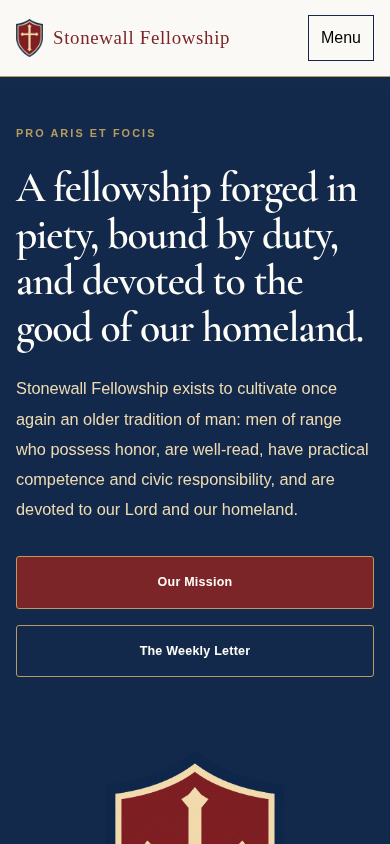
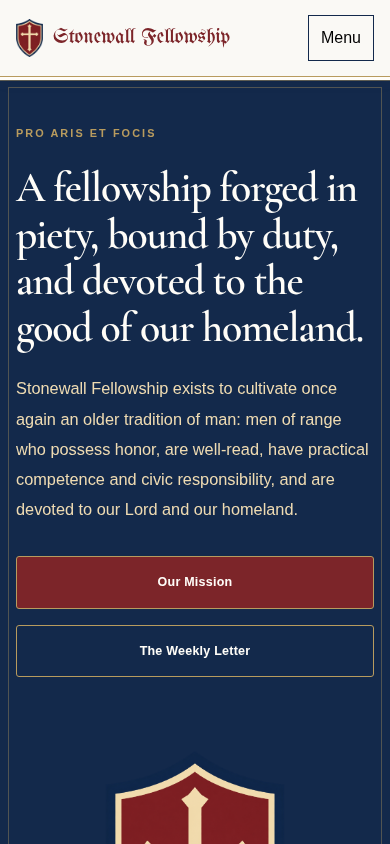
Add restrained colonial molding and refresh design previews

Changed region(s): [[0.0, 0.0924, 1.0, 0.1232], [0.1231, 0.0308, 0.5846, 0.0616]]

diff --git a/refined.css b/refined.css
@@ -34,8 +34,84 @@ h1,h2,h3,blockquote,.footer-title{font-family:Georgia,'Times New Roman',serif;fo
 @font-face{font-family:StonewallWordmark;src:url('/assets/fonts/unifrakturmaguntia-latin-400-normal.woff2') format('woff2');font-weight:400;font-display:swap}
 @font-face{font-family:StonewallSerif;src:url('/assets/fonts/cormorant-garamond-latin-400-normal.woff2') format('woff2');font-weight:400;font-display:swap}
 @font-face{font-family:StonewallSerif;src:url('/assets/fonts/cormorant-garamond-latin-600-normal.woff2') format('woff2');font-weight:600;font-display:swap}
-.brand span,.footer-title{font-family:StonewallWordmark,Georgia,serif;font-weight:400;color:var(--stonewall-red);font-size:1.9rem;letter-spacing:0}.brand img{width:36px;height:52px;object-fit:contain;border:0;padding:0;background:none}.footer-title{color:var(--stonewall-white)}
+.site-header .brand span,.footer-title{font-family:StonewallWordmark,Georgia,serif;font-weight:400;color:var(--stonewall-red);font-size:1.9rem;letter-spacing:0}.brand img{width:36px;height:52px;object-fit:contain;border:0;padding:0;background:none}.footer-title{color:var(--stonewall-white)}
 h1,h2,h3,.hero-copy h1,blockquote{font-family:StonewallSerif,Georgia,serif;font-weight:600;letter-spacing:-.025em}.hero-logo-wrap{background:none;box-shadow:none;border:0;border-radius:0;padding:0;width:100%;max-width:350px;justify-self:end}.hero-logo,.hero-shield{width:100%;max-height:440px;object-fit:contain;border:0;outline:0;border-radius:0;box-shadow:none;filter:none;mix-blend-mode:normal}.hero-logo-wrap:before,.hero-logo-wrap:after,.site-header:before,.site-header:after{display:none}.hero-grid{grid-template-columns:1.65fr .85fr;gap:64px}.hero{padding:70px 0 80px}.hero .button-secondary{color:var(--stonewall-white);border:1px solid var(--stonewall-gold);background:none}.hero .button-primary{background:var(--stonewall-red)!important;color:var(--stonewall-white)!important;border-color:var(--stonewall-gold)}.hero .button-primary:hover{background:var(--stonewall-red)!important;filter:brightness(1.1)}.hero-actions{gap:16px}.hero-copy h1{font-size:clamp(2.7rem,4.8vw,4.5rem)}.section-kicker{letter-spacing:.16em}.nav-cta{box-shadow:none}.legacy-portrait-section:before,.legacy-portrait-section:after{display:none}
-@media(max-width:1100px){.brand span{font-size:1.7rem}}
+@media(max-width:1100px){.site-header .brand span{font-size:1.7rem}}
 @media(max-width:800px){.hero-grid{grid-template-columns:1fr;gap:32px}.hero-logo-wrap{justify-self:center;max-width:180px}.hero-logo{max-height:260px}.hero{padding:46px 0 54px}.hero-copy h1{font-size:2.9rem}}
-@media(max-width:520px){.brand span{font-size:1.28rem}.brand{gap:10px}.brand img{width:27px;height:40px}.hero-copy h1{font-size:2.6rem}.hero-actions{flex-direction:column;align-items:stretch}}
+@media(max-width:520px){.site-header .brand span{font-size:1.28rem}.brand{gap:10px}.brand img{width:27px;height:40px}.hero-copy h1{font-size:2.6rem}.hero-actions{flex-direction:column;align-items:stretch}}
+
+/* Quiet architectural details inspired by colonial cornices and raised panels. */
+.site-header {
+  border-bottom: 1px solid var(--stonewall-gold);
+  box-shadow: 0 3px 0 var(--stonewall-white),
+              0 4px 0 color-mix(in srgb, var(--stonewall-gold) 45%, transparent),
+              0 7px 12px color-mix(in srgb, var(--stonewall-black) 5%, transparent);
+}
+
+.hero::after {
+  content: "";
+  display: block;
+  position: absolute;
+  inset: 20px;
+  border: 1px solid color-mix(in srgb, var(--stonewall-gold) 38%, transparent);
+  background: none;
+  pointer-events: none;
+}
+
+.hero::before {
+  content: "";
+  display: block;
+  position: absolute;
+  inset: auto 0 0;
+  height: 12px;
+  border: 0;
+  outline: 0;
+  background: linear-gradient(to bottom,
+    var(--stonewall-blue) 0 3px,
+    var(--stonewall-gold) 3px 4px,
+    var(--stonewall-ivory) 4px 7px,
+    var(--stonewall-white) 7px 10px,
+    var(--stonewall-gold) 10px 11px,
+    var(--stonewall-white) 11px);
+  pointer-events: none;
+}
+
+.visual-band,
+.letter-section {
+  box-shadow: inset 0 1px 0 color-mix(in srgb, var(--stonewall-gold) 55%, transparent),
+              inset 0 4px 0 var(--stonewall-white),
+              inset 0 5px 0 color-mix(in srgb, var(--stonewall-gold) 40%, transparent),
+              inset 0 -1px 0 color-mix(in srgb, var(--stonewall-gold) 55%, transparent),
+              inset 0 -5px 0 var(--stonewall-white),
+              inset 0 -6px 0 color-mix(in srgb, var(--stonewall-gold) 40%, transparent);
+}
+
+.fellowship-photo,
+.jackson-image {
+  padding: 9px;
+  background: var(--stonewall-white);
+  border: 1px solid color-mix(in srgb, var(--stonewall-gold) 55%, transparent);
+  outline: 1px solid color-mix(in srgb, var(--stonewall-gold) 35%, transparent);
+  outline-offset: -5px;
+  border-radius: 1px;
+  box-shadow: 0 3px 10px color-mix(in srgb, var(--stonewall-black) 6%, transparent);
+}
+
+.fellowship-photo img,
+.jackson-image img {
+  border-radius: 0;
+}
+
+.letter-form,
+.contact-card {
+  border: 1px solid color-mix(in srgb, var(--stonewall-gold) 70%, transparent);
+  outline: 1px solid color-mix(in srgb, var(--stonewall-gold) 35%, transparent);
+  outline-offset: -8px;
+  border-radius: 1px;
+  box-shadow: 0 3px 12px color-mix(in srgb, var(--stonewall-black) 5%, transparent);
+}
+
+@media (max-width: 520px) {
+  .hero::after { inset: 10px 8px 20px; }
+  .fellowship-photo, .jackson-image { padding: 7px; }
+}

diff --git a/README.md b/README.md
@@ -2,6 +2,8 @@
 
 ## View the redesign
 
+Updated with restrained colonial trim: a fine hero border, layered baseboard lines, and subtle molding around gathering photographs and the newsletter/contact panels.
+
 These are actual Chromium browser screenshots of the implemented website, not generated mockups. Open an image to see it at full size. The live stonewallfellowship.com website has not been modified.
 
 ### Desktop homepage
